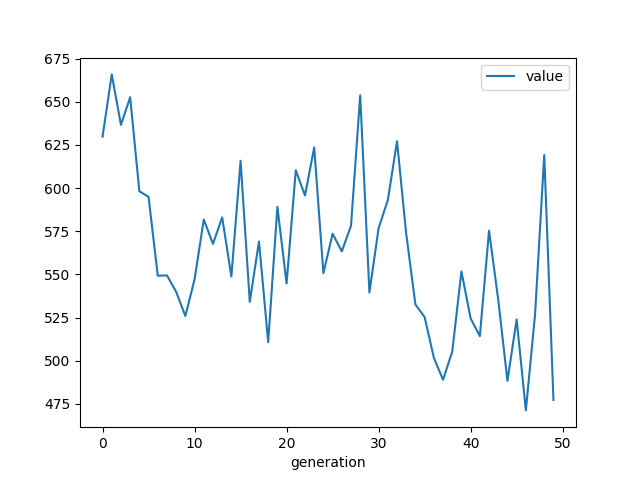
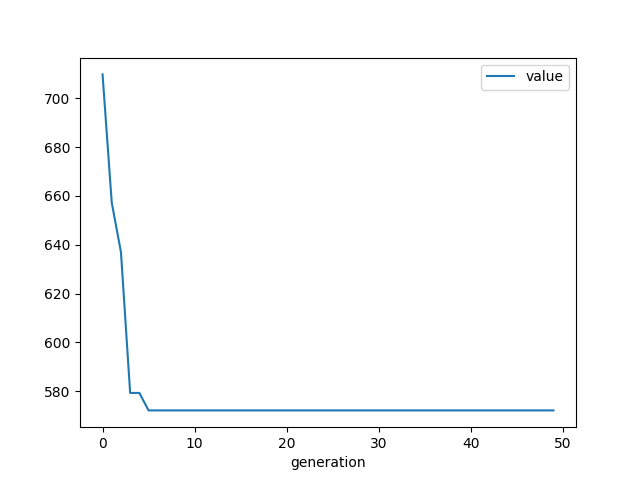
Ga now takes int params.

diff --git a/genetic_algorithm.py b/genetic_algorithm.py
@@ -1,49 +1,37 @@
 import numpy as np
 from tqdm import tqdm
 
-from bits import number_of_bits_for_int, bits_to_number
+from bits import bits_to_number
 import multiprocessing as mp
 from time import time
+
 
 def initialize_population(pop_size, init_bits):
     return init_bits.reshape(pop_size, -1)
 
 
 def mutate_population(population, mutation_bits):
-    bits_per_individual = len(population[0])
-    for individual_index in range(len(population)):
-        individual = population[individual_index]
-        individual_mutation_bits = mutation_bits[(individual_index * bits_per_individual):(
-                (individual_index + 1) * bits_per_individual)]
-        individual_ints = np.array(list(map(int, individual)))
-        for bit_index in range(len(individual_ints)):
-            if individual_mutation_bits[bit_index] == '1':
-                individual_ints[bit_index] = 1 - individual_ints[bit_index]
-        individual_bitstring = individual_ints.astype(str)  # ''.join(list(map(str, individual_ints)))
-        population[individual_index] = individual_bitstring
-    return population
+    original_population_shape = population.shape
+    flat_population = population.flatten()
+    mutation_positions = list(np.unique(mutation_bits))
+
+    flat_population[mutation_positions] = 1 - flat_population[mutation_positions]
+
+    return population.reshape(original_population_shape)
 
 
-def cross_over_population(population, cross_over_bits, selection_pool_size, n_dimensions, bits_per_value):
-    pairs_bits = cross_over_bits[:selection_pool_size * 5]
-    bit_positions = pairs_bits.reshape(selection_pool_size, 5)  # 5 is the number of bits for 0..31
-    int_positions = np.array([int(''.join(bit_position), 2) for bit_position in bit_positions])  # duplicates
-
-    population = list(population)
-
+def cross_over_population(population, cross_over_bits, selection_pool_size):
+    cx_pairs = cross_over_bits[:selection_pool_size]
     selection_pool = []
 
-    for p in int_positions:
-        p = min(p, len(population) - 1)
+    population = list(population)
+    for p in cx_pairs:
         selection_pool.append(population[p])
         del population[p]
-
+    selection_pool = np.array(selection_pool)
     new_population = list(population)
 
-    num_cutting_points_bits = number_of_bits_for_int(n_dimensions * bits_per_value) * selection_pool_size // 2
-    cutting_points_bits = cross_over_bits[selection_pool_size * 5:][:num_cutting_points_bits] \
-        .reshape((selection_pool_size // 2, -1))
-    cutting_points = np.array([int(''.join(bit_position), 2) for bit_position in cutting_points_bits])
+    cutting_points = cross_over_bits[selection_pool_size:][:selection_pool_size // 2]
 
     for pair_index in range(len(cutting_points)):
         parent1 = selection_pool[2 * pair_index]
@@ -51,19 +39,16 @@ def cross_over_population(population, cross_over_bits, selection_pool_size, n_di
 
         cutting_point = cutting_points[pair_index]
 
-        cutting_point = max(1, cutting_point)
-        cutting_point = min(cutting_point, len(parent1) - 2)
-
         child1 = np.concatenate([parent1[:cutting_point], parent2[cutting_point:]])
         child2 = np.concatenate([parent2[:cutting_point], parent1[cutting_point:]])
         new_population.append(child1)
         new_population.append(child2)
 
-    return np.array(new_population)
+    return np.array(new_population, dtype='int')
 
 
 def individual_to_values(individual, function, n_dimensions):
-    bit_groups = np.array(individual).reshape(n_dimensions, -1)
+    bit_groups = np.array(individual).astype(str).reshape(n_dimensions, -1)
     values = [bits_to_number(''.join(bits), function.lower_bound, function.upper_bound) for bits in bit_groups]
     return np.array(values)
 
@@ -74,7 +59,7 @@ def eval_individual(individual, function, n_dimensions):
 
 def evaluate_population(population, function, n_dimensions, pool):
     scores = []
-    for individual in population:
+    for individual in population.astype(int):
         score = pool.apply_async(eval_individual, args=(individual, function, n_dimensions))
         scores.append(score)
     scores = [score.get() for score in scores]
@@ -84,20 +69,19 @@ def evaluate_population(population, function, n_dimensions, pool):
 def select_next_generation(population, global_best_individual, tournament_size, scores, selection_bits):
     new_population = [np.array(global_best_individual)]  # elitism 1
     while len(new_population) < len(population):
-        tournament_bits = selection_bits[:5 * tournament_size]
-        bit_positions = tournament_bits.reshape(tournament_size, 5)
-        int_positions = np.array([int(''.join(bit_position), 2) for bit_position in bit_positions])
+        int_positions = selection_bits[:tournament_size]
         tournament_scores = np.array([scores[p] for p in int_positions])
 
         winner_position = int_positions[tournament_scores.argmax()]
         winner = population[winner_position]
         new_population.append(np.array(winner))
-    return new_population
+        selection_bits = selection_bits[tournament_size:]
+
+    return np.array(new_population, dtype='int')
 
 
-# ga_bits must be a list of chars, not a string
 def genetic_algorithm(genetic_algorithm_bits, bits_per_value, function, n_dimensions,
-                      pop_size, num_generations, selection_pool_size, tournament_size, num_workers=8):
+                      pop_size, num_generations, selection_pool_size, mutation_rate, tournament_size, num_workers=8):
     num_init_bits = bits_per_value * n_dimensions * pop_size
     init_bits = genetic_algorithm_bits[:num_init_bits]
     population = initialize_population(pop_size, init_bits=init_bits)
@@ -107,26 +91,22 @@ def genetic_algorithm(genetic_algorithm_bits, bits_per_value, function, n_dimens
     global_best_score = -np.inf
     history = []
     pool = mp.Pool(processes=num_workers)
-    eval_times = []
-    for generation in tqdm(np.arange(num_generations), leave=True):
+    for generation in np.arange(num_generations):
         # mutation
 
-        num_mutation_bits = bits_per_value * n_dimensions * pop_size
+        num_mutation_bits = int(num_init_bits * mutation_rate)
         mutation_bits = genetic_algorithm_bits[:num_mutation_bits]
         population = mutate_population(population, mutation_bits=mutation_bits)
         genetic_algorithm_bits = genetic_algorithm_bits[num_mutation_bits:]
 
         # cross-over
 
-        num_cx_bits = selection_pool_size * 5 + number_of_bits_for_int(n_dimensions * bits_per_value) * selection_pool_size // 2
+        num_cx_bits = selection_pool_size * 3 // 2
         cross_over_bits = genetic_algorithm_bits[:num_cx_bits]
-        population = cross_over_population(population, cross_over_bits, selection_pool_size, n_dimensions, bits_per_value)
+        population = cross_over_population(population, cross_over_bits, selection_pool_size)
         genetic_algorithm_bits = genetic_algorithm_bits[num_cx_bits:]
 
-        start_time = time()
         scores = evaluate_population(population, function, n_dimensions, pool)
-        eval_time = time() - start_time
-        eval_times.append(eval_time)
 
         # update global best
         best_index = scores.argmax()
@@ -136,12 +116,15 @@ def genetic_algorithm(genetic_algorithm_bits, bits_per_value, function, n_dimens
             global_best_individual = np.array(population[best_index])
 
         # tournament selection
-        num_selection_bits = (pop_size - 1) * tournament_size * 5  # 5 is the number of bits for the position 0..31
+        num_selection_bits = (pop_size - 1) * tournament_size
         selection_bits = genetic_algorithm_bits[:num_selection_bits]
         population = select_next_generation(population, global_best_individual, tournament_size, scores, selection_bits)
         genetic_algorithm_bits = genetic_algorithm_bits[num_selection_bits:]
         history.append(scores)
     pool.close()
-
-    return np.array(history), -global_best_score, \
-           individual_to_values(global_best_individual, function, n_dimensions), eval_times
+    print('Bits left: ', len(genetic_algorithm_bits))
+    return {
+        'history': np.array(history),
+        'best_score': -global_best_score,
+        'best_individual': individual_to_values(global_best_individual, function, n_dimensions),
+    }

diff --git a/main.py b/main.py
@@ -6,37 +6,28 @@ import pandas as pd
 from tqdm import tqdm
 from time import time
 
-
-# def ga_master_ind_len():
-#     pop_size = 30
-#     num_generations = 50
-#     ind_bit_len = 10
-#     tournament_size = 5
-#
-#     mutations = num_generations * pop_size * ind_bit_len
-#     cx = num_generations * pop_size
-#     selection = num_generations * pop_size * tournament_size
-#     shuffle = num_generations * pop_size
-#
-#     print(mutations + cx + selection + shuffle)
+from plotter import plot_per_generation
 
 
 def generate_random_ga_bits(bits_per_value, n_dimensions, pop_size, num_generations,
                             tournament_size, selection_pool_size, mutation_rate=0.05):
     init_bits = bits_per_value * n_dimensions * pop_size
-    mutation_bits = bits_per_value * n_dimensions * pop_size
-    cx_bits = selection_pool_size * 5 \
-              + number_of_bits_for_int(n_dimensions * bits_per_value) * selection_pool_size // 2  # and cutting points
-    selection_bits = (pop_size - 1) * tournament_size * 5
+    state_bits = init_bits
+    mutation_bits = int(state_bits * mutation_rate)
+    selection_bits = (pop_size - 1) * tournament_size
 
-    generation_bits = mutation_bits + cx_bits + selection_bits
-    total = init_bits + num_generations * generation_bits
-
-    bit_groups = [np.random.choice(['0', '1'], init_bits)]
+    bit_groups = [np.random.choice([0, 1], init_bits)]
     for _ in range(num_generations):
-        m = np.random.choice(['0', '1'], mutation_bits, p=[1 - mutation_rate, mutation_rate])
-        cx = np.random.choice(['0', '1'], cx_bits)
-        selection = np.random.choice(['0', '1'], selection_bits)
+        m = np.random.randint(0, state_bits, mutation_bits)
+
+        cx = []
+        for _ in range(selection_pool_size):
+            cx.append(np.random.randint(0, pop_size - len(cx)))
+        for _ in range(selection_pool_size // 2):
+            cx.append(np.random.randint(1, bits_per_value * n_dimensions - 1))
+        cx = np.array(cx, dtype=np.object)
+
+        selection = np.random.randint(0, pop_size, selection_bits)
 
         bit_groups.append(m)
         bit_groups.append(cx)
@@ -45,24 +36,29 @@ def generate_random_ga_bits(bits_per_value, n_dimensions, pop_size, num_generati
     return np.concatenate(bit_groups)
 
 
-def run_ga(func):
-    g_pop_size = 32
+def run_ga(func, n_dim):
+    g_pop_size = 30
     g_tournament_size = 5
     g_selection_pool_size = 20
     g_num_generations = 50
-    g_dimensions = 100
+    g_dimensions = n_dim  # 100
     num_workers = 4
+    mutation_rate = 0.05
 
     g_bits_per_value = find_number_of_bits(lower_bound=func.lower_bound, upper_bound=func.upper_bound)
 
     ga_bits = generate_random_ga_bits(g_bits_per_value, g_dimensions, g_pop_size, g_num_generations,
-                                      g_tournament_size, g_selection_pool_size)
+                                      g_tournament_size, g_selection_pool_size, mutation_rate=mutation_rate)
 
-    h, best_score, solution, eval_times = genetic_algorithm(ga_bits, g_bits_per_value, func, g_dimensions, g_pop_size,
-                                                            g_num_generations, g_selection_pool_size, g_tournament_size,
-                                                            num_workers=num_workers)
-    return eval_times
+    result = genetic_algorithm(ga_bits, g_bits_per_value, func, g_dimensions,
+                               g_pop_size, g_num_generations, g_selection_pool_size,
+                               mutation_rate, g_tournament_size, num_workers=num_workers)
+    return result
 
 
 if __name__ == '__main__':
-    times = run_ga(functions[0])
+    for f in functions:
+        r = run_ga(f, n_dim=100)
+        np.save(f'history/{f.name}.npy', r['history'])
+        print(f.name, r['best_score'])
+    plot_per_generation()

diff --git a/parallel.py b/parallel.py
@@ -1,0 +1,41 @@
+import multiprocessing
+
+import numpy as np
+
+from bits import find_number_of_bits
+from functions import functions
+from genetic_algorithm import genetic_algorithm
+from main import generate_random_ga_bits
+from tqdm import tqdm
+
+
+def search_number_of_workers(func, dims):
+    g_pop_size = 30
+    g_tournament_size = 5
+    g_selection_pool_size = 20
+    g_num_generations = 100
+    g_dimensions = dims  # 100
+
+    best_num_workers = None
+    lowest_time = None
+
+    g_bits_per_value = find_number_of_bits(lower_bound=func.lower_bound, upper_bound=func.upper_bound)
+
+    ga_bits = generate_random_ga_bits(g_bits_per_value, g_dimensions, g_pop_size, g_num_generations,
+                                      g_tournament_size, g_selection_pool_size)
+
+    for num_workers in np.arange(1, multiprocessing.cpu_count() * 2 + 1):
+        print('Workers: ', num_workers)
+        ga_result = genetic_algorithm(ga_bits, g_bits_per_value, func, g_dimensions,
+                                    g_pop_size, g_num_generations, g_selection_pool_size,
+                                    0.05, g_tournament_size,num_workers=num_workers)
+        avg_eval_time = np.mean(ga_result['evaluation_times'])
+        if lowest_time is None or avg_eval_time < lowest_time:
+            lowest_time = avg_eval_time
+            best_num_workers = num_workers
+    return best_num_workers
+
+
+if __name__ == '__main__':
+    best_num_workers = search_number_of_workers(functions[0], 100)
+    print('Optimal number of workers: ', best_num_workers)

diff --git a/plotter.py b/plotter.py
@@ -6,8 +6,8 @@ import matplotlib.pyplot as plt
 
 
 def plot_per_generation():
-    for file in os.listdir('per_generation'):
-        location = os.path.join('per_generation', file)
+    for file in os.listdir('history'):
+        location = os.path.join('history', file)
         history = -np.load(location)
         fname = os.path.splitext(file)[0]
         df = pd.DataFrame(history).T.melt()
@@ -28,4 +28,4 @@ def plot_time():
 
 
 if __name__ == '__main__':
-    plot_time()
+    plot_per_generation()
